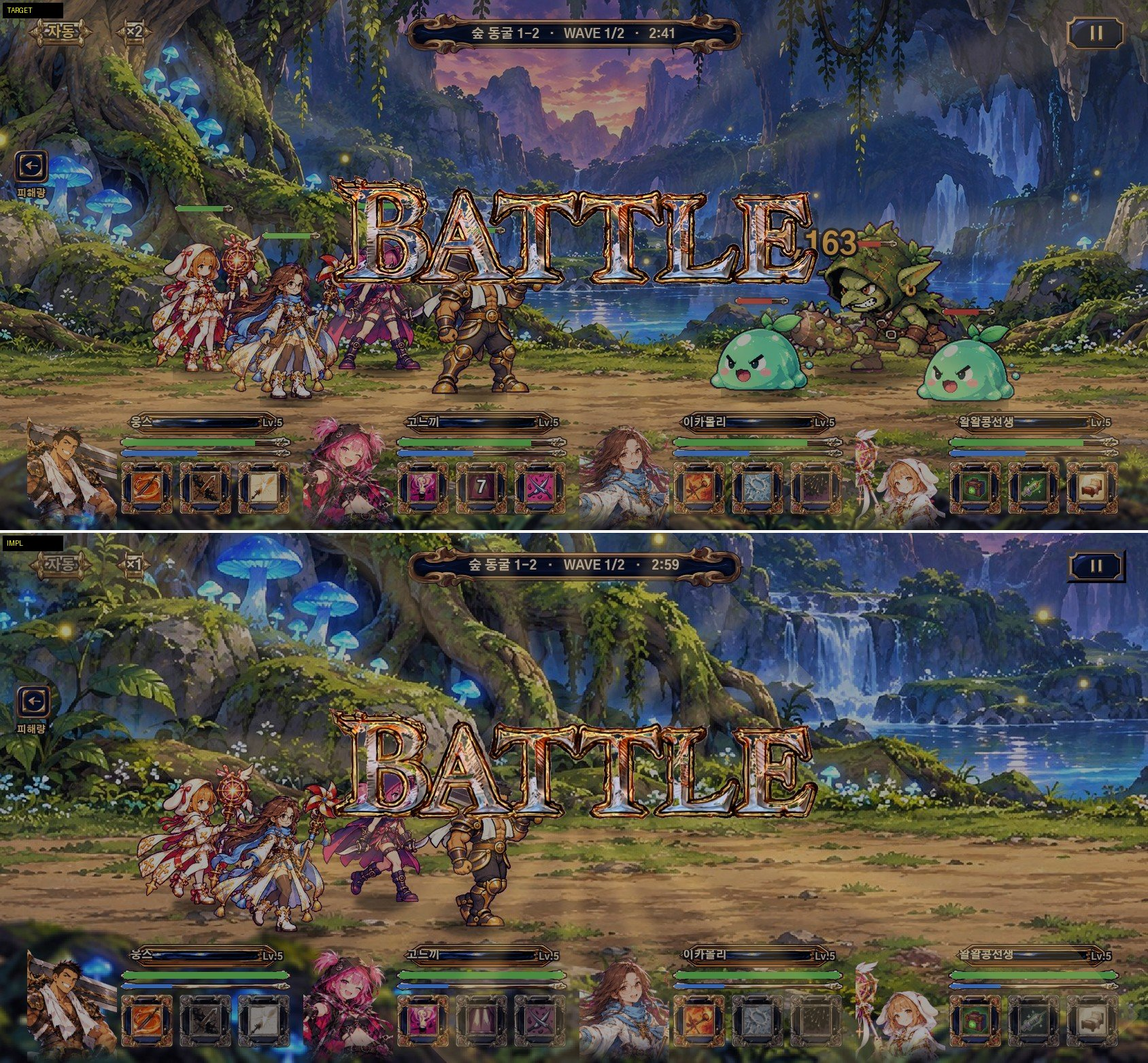
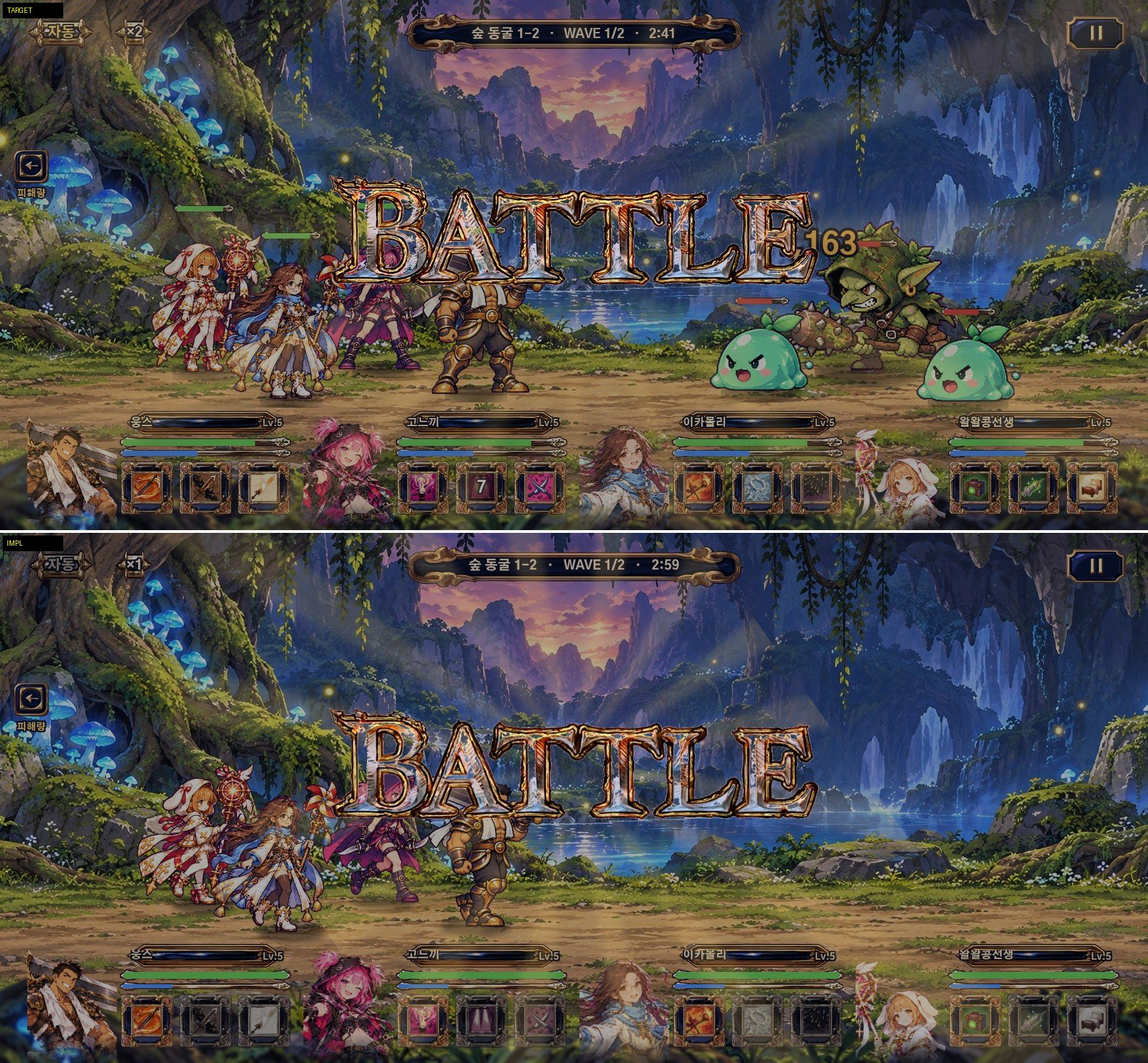
ui: 전투 배경 cover 구도 · 확인 캡처 impl_1018 (정답 비교 · 상반신 36 · 해상도 5) · 레이드 AUTO 시험 시간 예산
- 전투 배경: 높이 390 cover(정답 화면 battle.jpg 구도) · 걷기 흐름 유지
- 모스 할머니 상반신 보정(bust dx·dy)
- tests/raid.test.ts: Lv20 레이드 AUTO 시험의 반복 예산 200→300초 (게임 제한 150초가 승패를 가름 · main에서도 실패하던 것)
- docs/captures/impl_1018/: title·lobby·battle_start·battle·victory·result·heroes·popup + _cmp, busts, safe_5종, boss_intro, pause

Claude-Session: https://claude.ai/code/session_01BobDL1ZCo2XQw8SBskpwFb

diff --git a/src/battle/render.ts b/src/battle/render.ts
@@ -241,10 +241,11 @@ function tag(ctx: CanvasRenderingContext2D, text: string, x: number, y: number) 
 function background(ctx: CanvasRenderingContext2D, art: Art, s: number, W: number, region: number, key?: string) {
   const { im, own } = bgOf(art, key);
   if (im) {
-    const y0 = -160;
-    const h = LH - y0;
-    const w = (im.width / im.height) * h;
-    const o = -((s * 0.25) % w);
+    // cover (높이 390 꽉 · 가운데) — 정답 화면 battle.jpg와 같은 구도 (UI_KIT_1018) · 걸을 때 옆으로 흐름
+    const y0 = 0;
+    const h = LH;
+    const w = Math.max(W, (im.width / im.height) * h);
+    const o = -((((s * 0.25 + (w - W) / 2) % w) + w) % w);
     ctx.filter = own ? 'none' : (B.region[region] ?? 'none');
     for (let x = o; x < W; x += w) ctx.drawImage(im, Math.floor(x), y0, Math.ceil(w) + 1, h);
     ctx.filter = 'none';

diff --git a/tests/raid.test.ts b/tests/raid.test.ts
@@ -94,7 +94,8 @@ describe('보스 전장', () => {
   it('AUTO로도 끝까지: Lv20 레이드 승리 · 부위 모두 파괴 / 월드 보스 Lv30 부위 모두 파괴', () => {
     const b = raidAt(20);
     b.auto = true;
-    run(b, 200);
+    // 실제 시간 300초 안 (게임 제한 시간 150초가 승패를 가름 · 협공·페이즈 연출 동안 게임 시간이 느려져 200초로는 모자랐음 — 10/18 main에서도 실패하던 것)
+    run(b, 300);
     expect(b.phase).toBe('win');
     expect(b.raid!.parts.every((p) => p.broken)).toBe(true);
     expect(b.raid!.dodges.auto).toBeGreaterThan(0);
